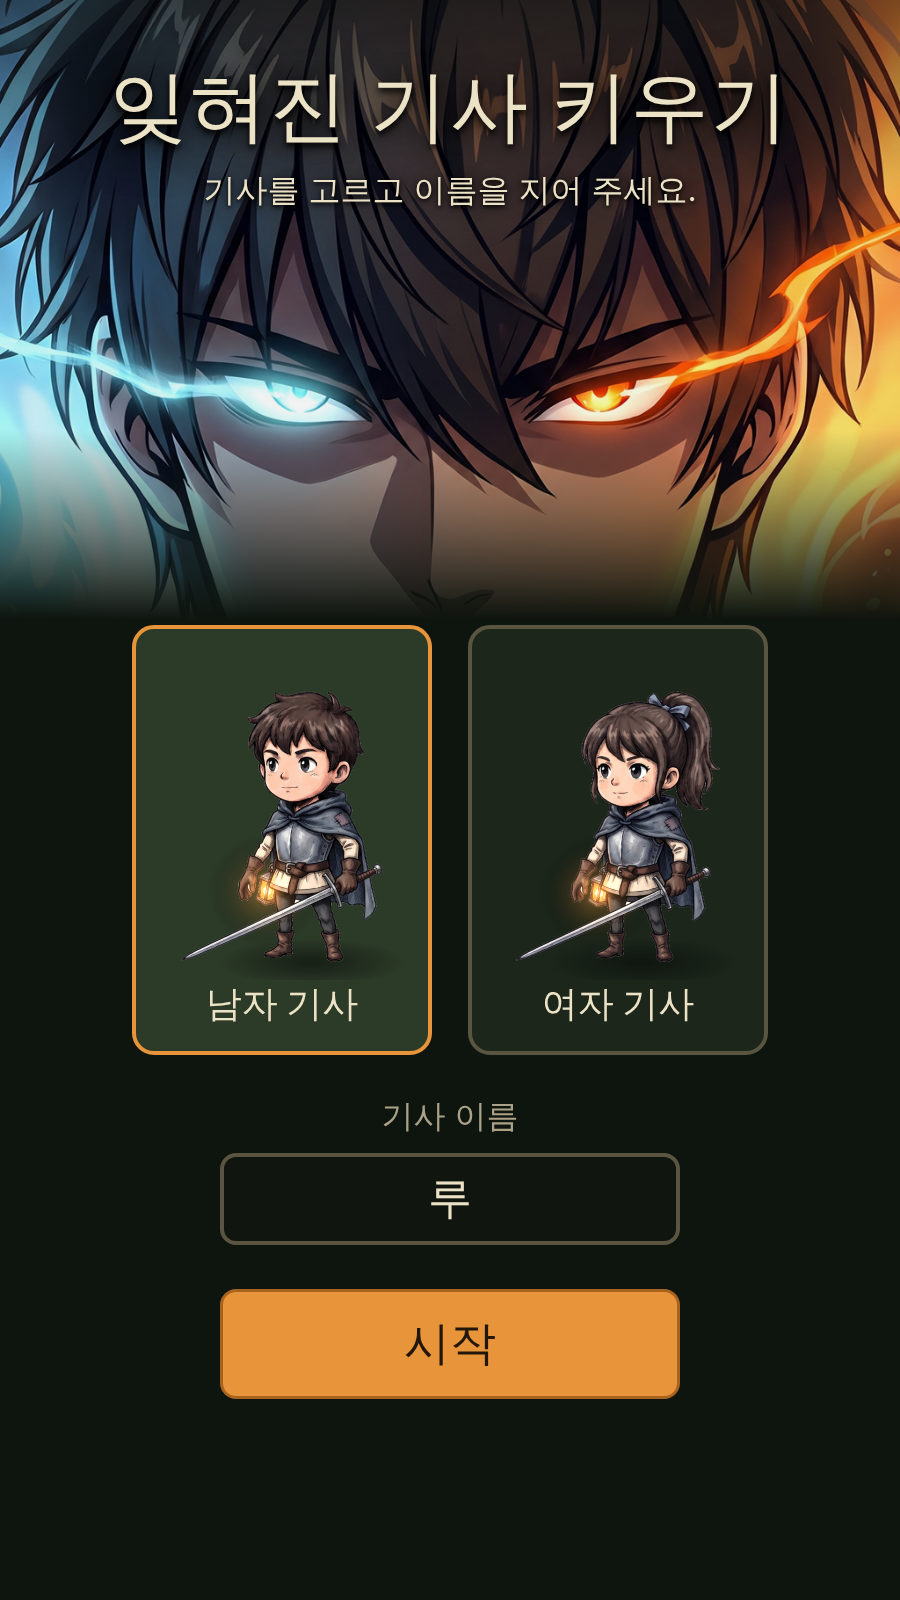
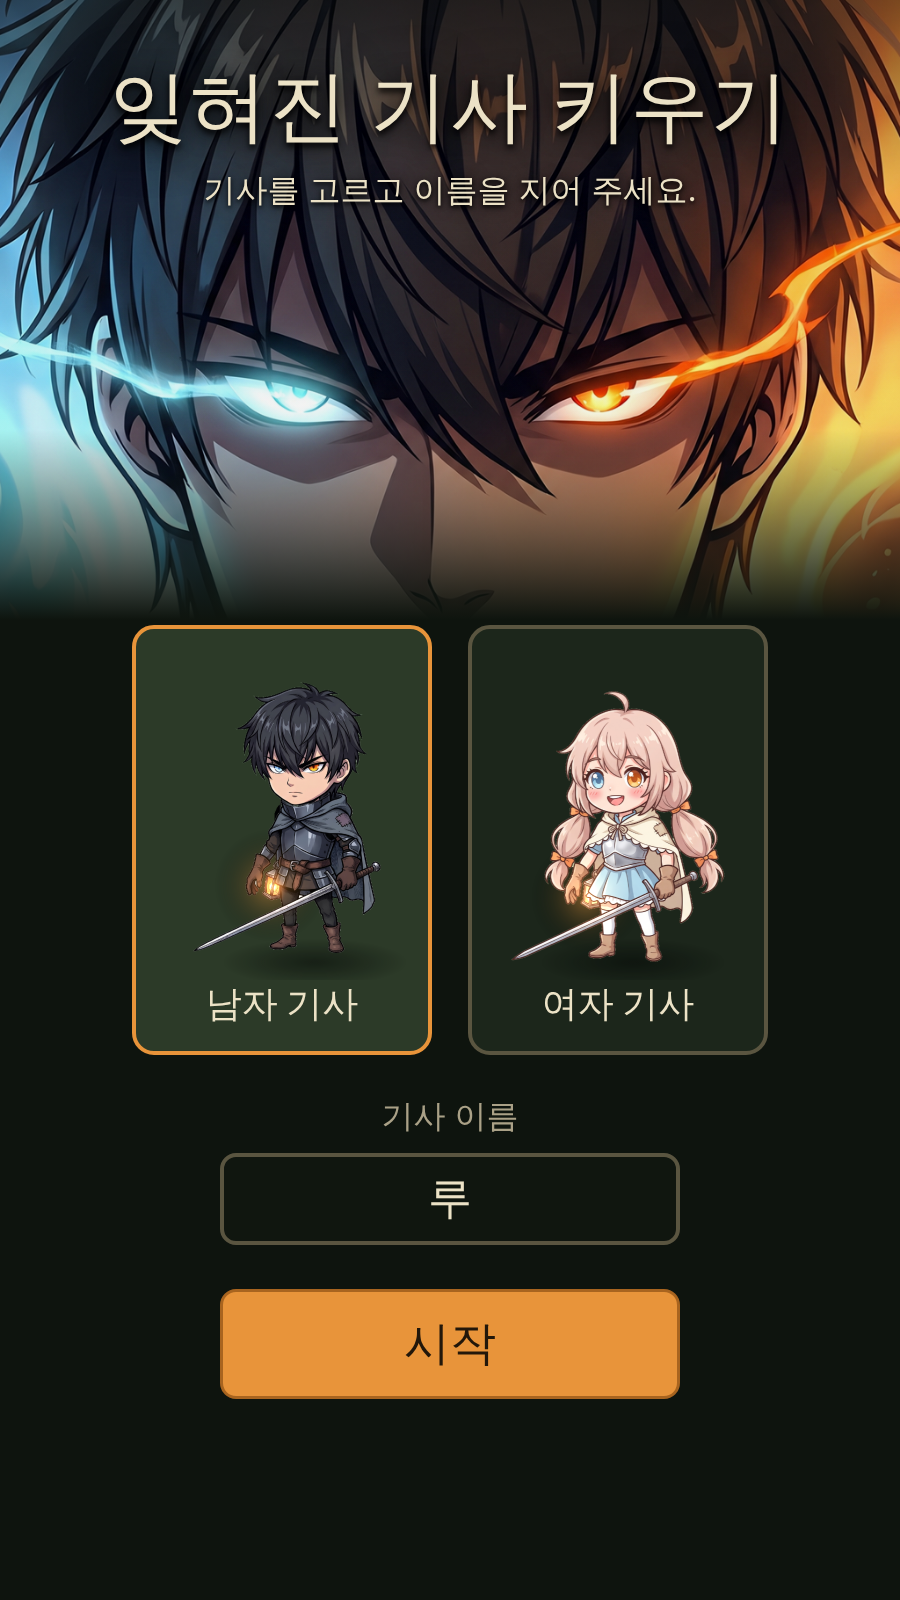
꾸미기 실제 적용: 남자 기사 머리 3종과 옷 4종을 섞어 입히기, 나누는 도구
Claude-Session: https://claude.ai/code/session_019ctizXkAJK8e2QXDcDEkS2

Changed region(s): [[0.5911, 0.4375, 0.8089, 0.625], [0.2178, 0.4062, 0.4356, 0.5938]]

diff --git a/tools/꾸밈나누기.py b/tools/꾸밈나누기.py
@@ -1,0 +1,161 @@
+#!/usr/bin/env python3
+"""꾸밈 나누기: 기사 그림 한 장을 '머리'와 '옷' 두 겹으로 나눈다.
+
+모든 그림은 1024 x 1024, 같은 자세, 같은 자리다. 그래서 나눈 겹을 그대로 겹치면 섞어 입힐 수 있다.
+
+  머리 = 머리카락 + 얼굴 + 귀 (턱선까지)
+  옷   = 목깃부터 아래 전부 (무기와 등불도 여기)
+  깃   = 옷 가운데 머리 '앞'에 와야 하는 조각 (망토 깃, 털 깃). 머리 위에 한 번 더 그린다.
+
+겹치는 차례: 옷 -> 머리 -> 깃
+
+쓰는 법:  python3 tools/꾸밈나누기.py
+만드는 것:
+  art/knight/머리/<이름>-남.png, art/knight/옷/<이름>-남.png, art/knight/옷/<이름>-남-깃.png(있을 때만)
+  art/시안/꾸미기/섞어입기-남.png (머리 3 x 옷 4 확인판)
+"""
+import os
+import numpy as np
+from PIL import Image, ImageDraw, ImageFilter
+
+ROOT = os.path.dirname(os.path.dirname(os.path.abspath(__file__)))
+P = lambda *a: os.path.join(ROOT, *a)
+N = 1024
+
+# 턱선: 얼굴은 모든 그림에서 같은 자리에 있다. 왼쪽 볼에서 턱끝을 지나 오른쪽 볼까지 (바깥 테두리 선 포함)
+JAW = [(451, 346), (455, 380), (465, 404), (485, 426), (509, 440), (537, 450), (561, 446), (586, 439), (611, 430), (634, 415), (651, 400)]
+LEFT = [(0, 372), (446, 372)]            # 얼굴 왼쪽: 이 높이 위는 머리카락
+
+# 그림마다 다른 것은 얼굴 오른쪽이다. 뒷머리가 내려오는 모양과 깃이 올라오는 모양이 다르다.
+# right: 턱선 오른쪽 끝(651,400)에서 그림 오른쪽 끝까지 이어지는 경계 (이 선 위가 머리)
+LOOKS = {
+    '기본': dict(src='art/knight/기본-남.png',
+               right=[(676, 402), (706, 409), (712, 372), (1024, 372)]),          # 망토 깃이 볼 옆으로 올라온다
+    '속옷': dict(src='art/시안/꾸미기/기본속옷-남.png',
+               right=[(635, 416), (636, 438), (657, 438), (673, 423), (693, 403), (701, 372), (1024, 372)]),   # 목 옆으로 뒷머리가 내려온다
+    '중세': dict(src='art/시안/꾸미기/중세-남.png', jaw_end=8,                       # 털 깃이 오른쪽 볼을 조금 덮는다
+               right=[(628, 425), (640, 410), (660, 385), (676, 379), (700, 372), (1024, 372)]),
+    '현대': dict(src='art/시안/꾸미기/현대-남.png',
+               right=[(637, 425), (650, 418), (664, 414), (678, 412), (690, 398), (701, 372), (1024, 372)]),   # 옆머리가 모자 위로 내려온다
+}
+# 머리 이름 -> 어느 그림에서 떼어 오는가. 검은 머리는 목이 드러난 속옷 그림에서 떼야 뒷머리가 온전하다.
+HEADS = {'기본': '속옷', '중세': '중세', '현대': '현대'}
+OUTFITS = ['기본', '속옷', '중세', '현대']
+# 깃: 옷 그림에서 이 네모 안의 조각은 머리 앞에 한 번 더 그린다 (x0, y0, x1, y1)
+COLLAR_FRONT = {
+    '기본': [(627, 384, 770, 480)],
+    '중세': [(380, 392, 474, 490), (624, 374, 790, 490)],
+}
+# 다른 머리에서 빌려 올 조각: 중세 머리는 털 깃에 가려 오른쪽 볼 끝이 없다. 같은 얼굴인 검은 머리에서 메운다.
+# 왼쪽 턱에는 털 깃 끝이 얼굴 위로 올라와 있다. 그 자리도 검은 머리의 같은 얼굴로 바꾼다.
+BORROW = {'중세': dict(frm='속옷', polys=[[(604, 431), (634, 416), (653, 400), (660, 388), (648, 384), (630, 398), (612, 410), (600, 418)],
+                                        [(438, 394), (468, 394), (494, 430), (486, 440), (462, 428), (438, 410)]])}
+# 옷 밑에 깔아 둘 살색 조각: 속옷은 목이 드러난다. 검은 뒷머리에 가려 있던 목 오른쪽을 채운다 (다각형, 테두리 선)
+UNDER = {'속옷': dict(poly=[(604, 430), (634, 415), (641, 437), (652, 452), (606, 454)], sample=(598, 448), line=[(634, 415), (641, 437), (652, 452)])}
+# 배경을 지우다 남은 옅은 초록 얼룩을 지울 자리 (x0, y0, x1, y1)
+DEGREEN = {'현대': [(652, 362, 730, 428)]}
+SMEAR = 26        # 턱 아래로 옷을 이만큼 위로 늘려 둔다. 머리를 바꿔도 목에 틈이 나지 않는다 (머리에 가려 보이지 않는 곳)
+
+
+def poly_mask(points, feather=1.2):
+    """다각형 안이 1인 부드러운 마스크"""
+    k = 4
+    m = Image.new('L', (N * k, N * k), 0)
+    ImageDraw.Draw(m).polygon([(x * k, y * k) for x, y in points], fill=255)
+    m = m.resize((N, N), Image.LANCZOS).filter(ImageFilter.GaussianBlur(feather))
+    return np.asarray(m).astype(np.float32) / 255
+
+
+def head_polygon(look):
+    jaw = JAW[:look.get('jaw_end', len(JAW))]
+    return [(0, 0), (N, 0)] + list(reversed(look['right'])) + list(reversed(jaw)) + list(reversed(LEFT))
+
+
+def load(name):
+    return np.asarray(Image.open(P(LOOKS[name]['src'])).convert('RGBA')).astype(np.float32)
+
+
+def save(arr, *path):
+    os.makedirs(os.path.dirname(P(*path)), exist_ok=True)
+    Image.fromarray(arr.clip(0, 255).astype(np.uint8), 'RGBA').save(P(*path))
+
+
+def split():
+    imgs = {n: load(n) for n in LOOKS}
+    for n, boxes in DEGREEN.items():
+        im = imgs[n]; r, g, bl = im[..., 0], im[..., 1], im[..., 2]
+        for x0, y0, x1, y1 in boxes:
+            box = np.zeros((N, N), bool); box[y0:y1, x0:x1] = True
+            im[..., 3][box & (g - r > 8) & (g - bl > 4) & (g > 120)] = 0
+    masks = {n: poly_mask(head_polygon(LOOKS[n])) for n in LOOKS}
+    heads, outfits, fronts = {}, {}, {}
+    for hn, src in HEADS.items():
+        h = imgs[src].copy(); h[..., 3] *= masks[src]
+        if hn in BORROW:                                   # 가려진 볼 끝을 같은 얼굴에서 메운다
+            b = BORROW[hn]; d = imgs[b['frm']].copy(); d[..., 3] *= masks[b['frm']]
+            for poly in b['polys']:
+                w = poly_mask(poly, 0.8)[..., None]; h = h * (1 - w) + d * w
+        heads[hn] = h; save(h, 'art', 'knight', '머리', hn + '-남.png')
+    for on in OUTFITS:
+        o = imgs[on].copy(); o[..., 3] *= 1 - masks[on]
+        # 턱 아래: 옷의 맨 윗줄을 위로 늘려서 머리 밑에 깔아 둔다
+        solid = o[..., 3] > 200
+        for x in range(JAW[2][0] + 6, JAW[-2][0] - 4):
+            ys = np.where(solid[380:520, x])[0]
+            if len(ys) == 0: continue
+            y = 380 + ys[0] + 2
+            for k in range(1, SMEAR + 1):
+                if o[y - k, x, 3] < 200: o[y - k, x] = o[y, x]
+        if on in UNDER:                                    # 가려져 있던 살을 채운다 (옷 밑에 깐다)
+            u = UNDER[on]; col = imgs[on][u['sample'][1], u['sample'][0], :3]
+            pm = Image.new('L', (N, N), 0); ImageDraw.Draw(pm).polygon(u['poly'], fill=255)
+            ln = Image.new('L', (N, N), 0); ImageDraw.Draw(ln).line(u['line'], fill=255, width=5)
+            patch = np.zeros_like(o); patch[..., :3] = col; patch[..., 3] = np.asarray(pm.filter(ImageFilter.GaussianBlur(1))).astype(np.float32)
+            la = np.asarray(ln.filter(ImageFilter.GaussianBlur(0.8))).astype(np.float32)[..., None] / 255
+            patch[..., :3] = patch[..., :3] * (1 - la) + np.array([22, 18, 20], np.float32) * la; patch[..., 3] = np.maximum(patch[..., 3], la[..., 0] * 255)
+            o = over_keep(patch, o)
+        outfits[on] = o; save(o, 'art', 'knight', '옷', on + '-남.png')
+        if on in COLLAR_FRONT:
+            f = np.zeros_like(o)
+            for x0, y0, x1, y1 in COLLAR_FRONT[on]:
+                f[y0:y1, x0:x1] = imgs[on][y0:y1, x0:x1]; f[y0:y1, x0:x1, 3] *= 1 - masks[on][y0:y1, x0:x1]
+            a = Image.fromarray(f[..., 3].astype(np.uint8)); edge = Image.new('L', (N, N), 0)   # 네모 가장자리를 부드럽게
+            for x0, y0, x1, y1 in COLLAR_FRONT[on]: ImageDraw.Draw(edge).rectangle([x0 + 3, y0 + 3, x1 - 4, y1 - 4], fill=255)
+            f[..., 3] = np.minimum(f[..., 3], np.asarray(edge.filter(ImageFilter.GaussianBlur(2))).astype(np.float32) * (np.asarray(a) > 0))
+            fronts[on] = f; save(f, 'art', 'knight', '옷', on + '-남-깃.png')
+    return heads, outfits, fronts
+
+
+def over_keep(dst, src):
+    """src 를 dst 위에 얹는다 (둘 다 투명 바탕)"""
+    a = src[..., 3:4] / 255; b = dst[..., 3:4] / 255; oa = a + b * (1 - a); out = np.zeros_like(dst)
+    out[..., :3] = (src[..., :3] * a + dst[..., :3] * b * (1 - a)) / np.maximum(oa, 1e-6); out[..., 3:4] = oa * 255
+    return out
+
+
+def over(dst, src):
+    a = src[..., 3:4] / 255; out = dst.copy()
+    out[..., :3] = src[..., :3] * a + dst[..., :3] * (1 - a); out[..., 3:4] = 255 * (a + dst[..., 3:4] / 255 * (1 - a))
+    return out
+
+
+def sheet(heads, outfits, fronts, cell=256, zoom=True):
+    """머리 3 x 옷 4 를 겹쳐 본 확인판. 아래 반은 목 둘레를 크게 본 것"""
+    hn, on = list(heads), list(outfits)
+    W, H = cell * len(on), cell * len(hn) * (2 if zoom else 1)
+    out = Image.new('RGB', (W, H), (38, 58, 40))
+    for r, h in enumerate(hn):
+        for c, o in enumerate(on):
+            im = np.zeros((N, N, 4), np.float32); im[..., :3] = (38, 58, 40); im[..., 3] = 255
+            im = over(im, outfits[o]); im = over(im, heads[h])
+            if o in fronts: im = over(im, fronts[o])
+            pic = Image.fromarray(im.clip(0, 255).astype(np.uint8), 'RGBA').convert('RGB')
+            out.paste(pic.crop((112, 30, 912, 960)).resize((int(cell * 800 / 930), cell), Image.LANCZOS), (c * cell + 18, r * cell))
+            if zoom: out.paste(pic.crop((400, 300, 720, 620)).resize((cell, cell), Image.LANCZOS), (c * cell, (len(hn) + r) * cell))
+    out.save(P('art', '시안', '꾸미기', '섞어입기-남.png'))
+
+
+if __name__ == '__main__':
+    h, o, f = split()
+    sheet(h, o, f)
+    print('머리', list(h), '옷', list(o), '깃', list(f))
